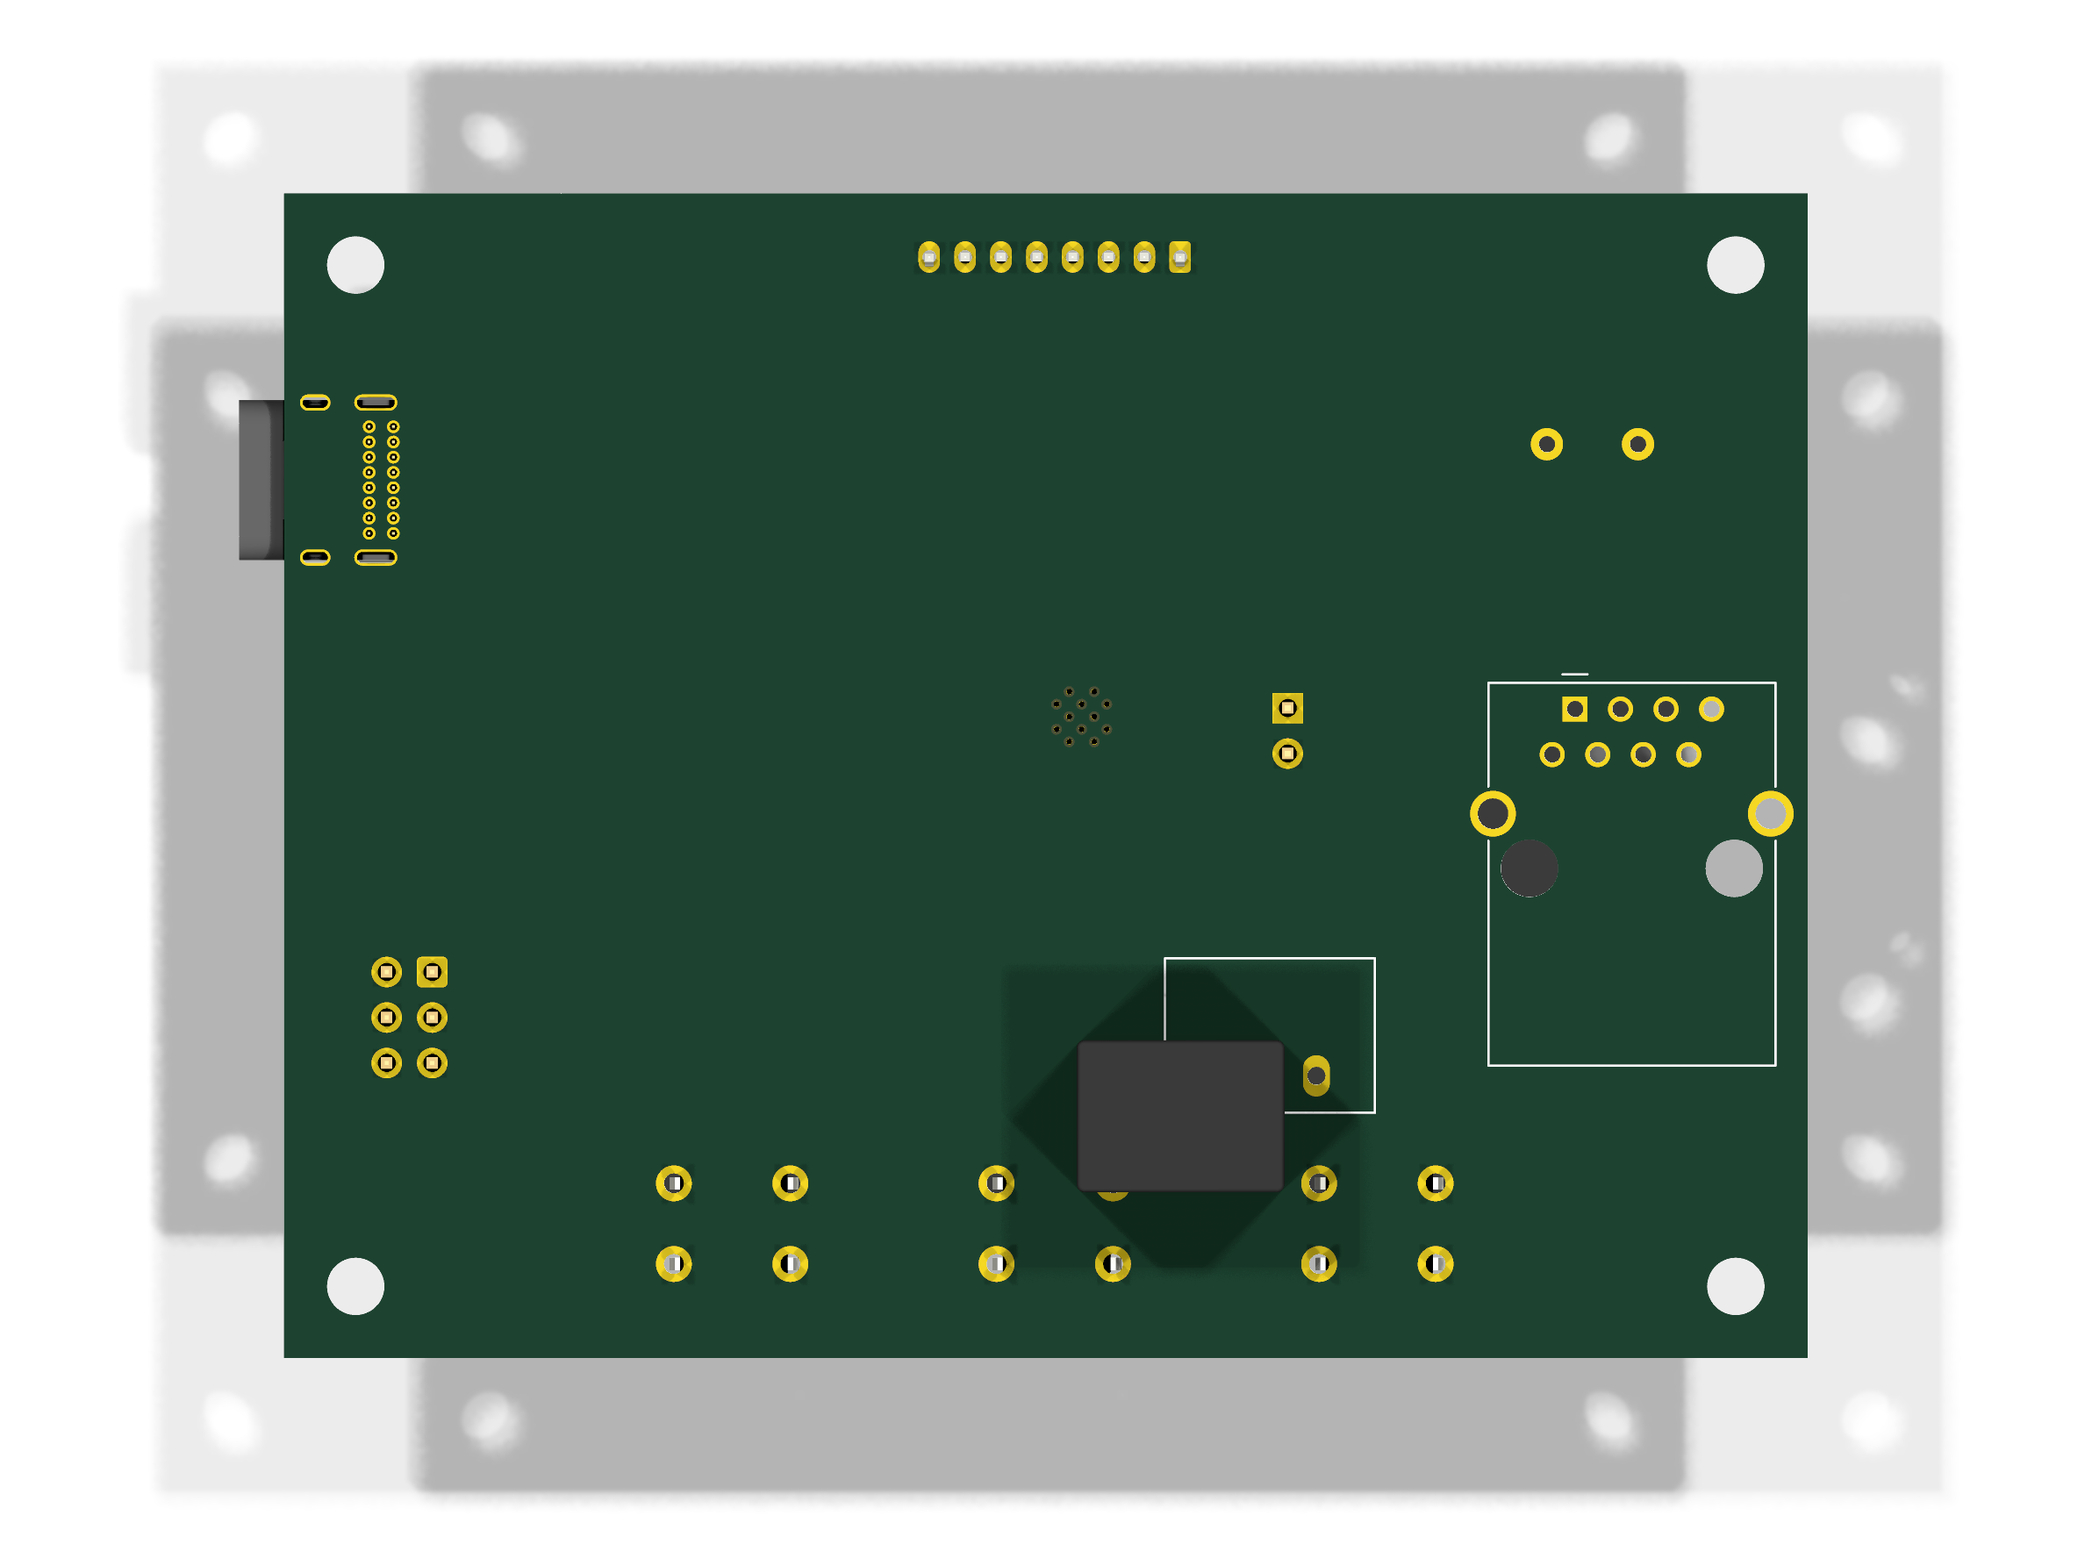
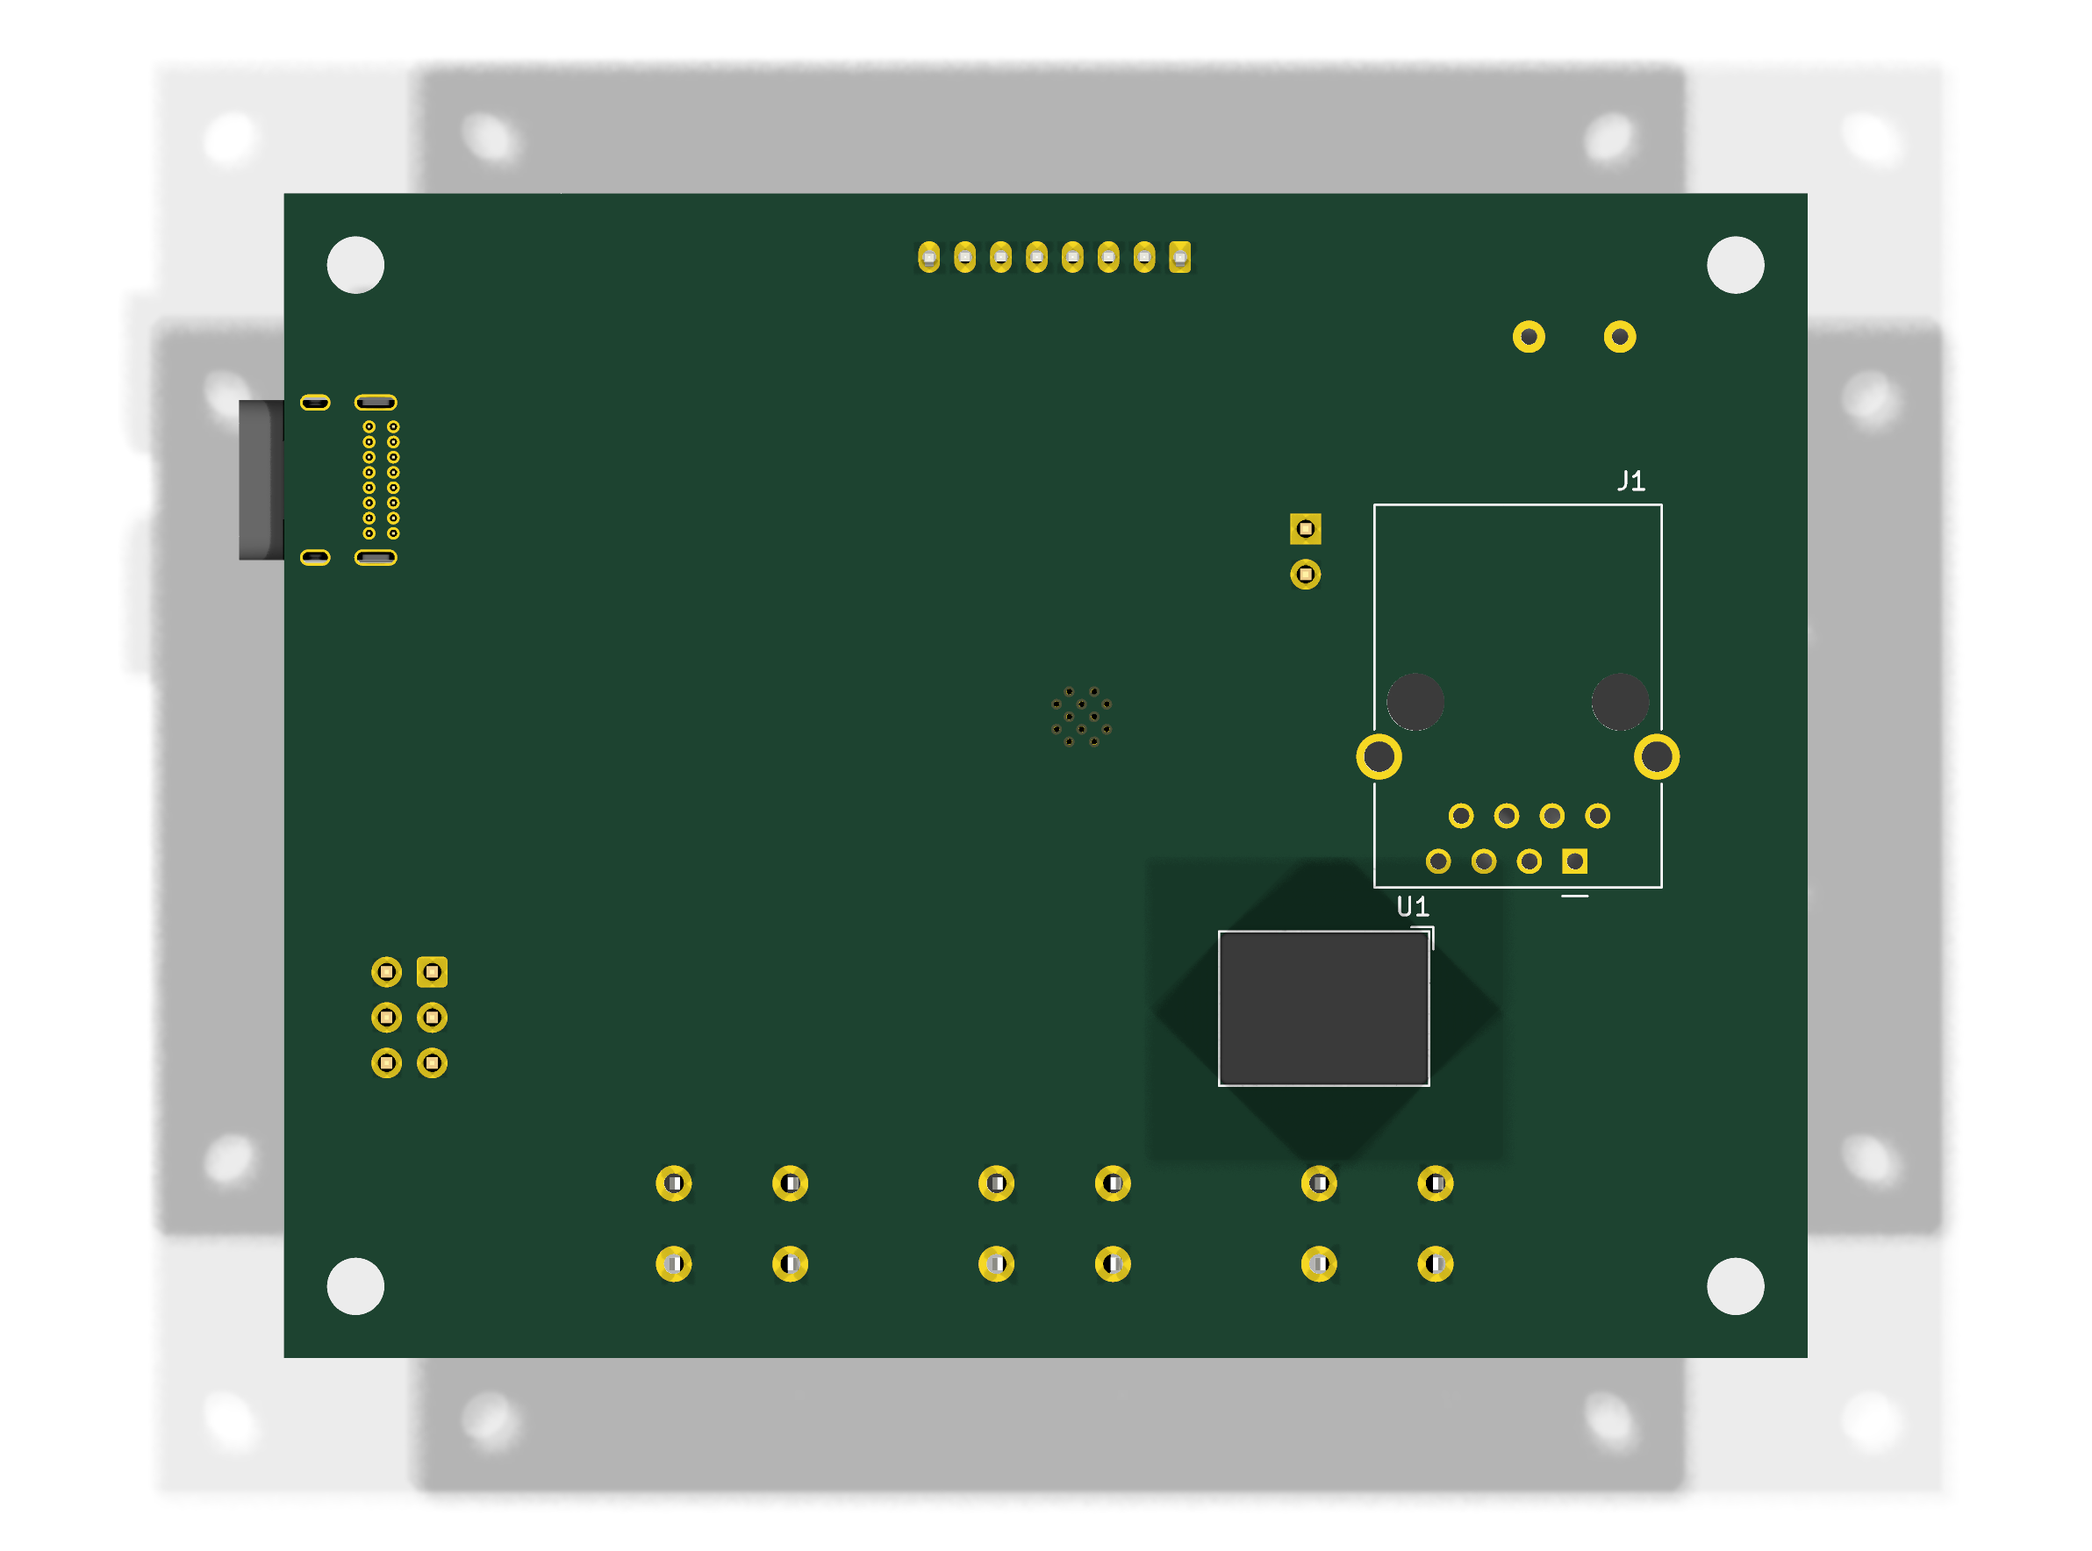
cp4: back-side refdes fixes, review packet, semaphore -> reviewer
Back-side refdes had two more defects (defect 7 in the packet table): the
inverse frame conversion mirrored X where _xf mirrors Y, so every back-side
designator landed at the mirror image of its intended spot (J1's was 21mm
off its own body); and _restore_properties was not side-aware, emitting
back-side refdes onto F.SilkS where they are invisible to whoever solders
that side. Both fixed; J1/U1 now carry mirrored text on B.SilkS positioned
at their bodies.

Candidate datasheets now live in hardware/datasheets/candidates/ with a
README explaining why: doc_consistency_check enforces that every PDF in the
active store maps to a BOM part (D32/F75), and a candidate has no BOM row by
definition. Parking it preserves the invariant instead of weakening the
checker for an exception.

CP4 packet written: 43 footprints, 57 nets, 0 unaccounted DRC. Semaphore
points at CP4 iteration 1.

Claude-Session: https://claude.ai/code/session_01EP34oLvQKnuhf59mAfUYQf

diff --git a/hardware/kicad/pcb/core.py b/hardware/kicad/pcb/core.py
@@ -765,6 +765,10 @@ def _restore_properties(board_text, prop_overrides=None):
             lib_props = {}
         atm = re.search(r'\(at ([-\d.]+) ([-\d.]+)(?: ([-\d.]+))?\)', chunk)
         rot = float(atm.group(3)) if atm and atm.group(3) else 0.0
+        # a footprint on B.Cu carries its silk on B.SilkS; the library
+        # block always says F.SilkS, and this restore was not side-aware,
+        # so back-side refdes were emitted onto the FRONT silk (CP4).
+        on_back = '(layer "B.Cu")' in chunk[:400]
         refm = re.search(r'\(property "Reference" "([^"]+)"', chunk)
         ref = refm.group(1) if refm else None
 
@@ -776,6 +780,11 @@ def _restore_properties(board_text, prop_overrides=None):
             # substitute the instance text into the library block
             blk = re.sub(r'^\(property "[^"]+" "[^"]*"',
                          f'(property "{name}" "{val}"', lib)
+            if on_back:
+                blk = blk.replace('(layer "F.SilkS")', '(layer "B.SilkS")')
+                blk = blk.replace('(layer "F.Fab")', '(layer "B.Fab")')
+                if "mirror" not in blk:
+                    blk = blk.replace("(effects", "(effects (justify mirror)", 1)
             if name == "Reference" and fpid.startswith("MountingHole"):
                 # convention: mounting holes carry no silk refdes (H1/H2
                 # rendered off-board at the corner holes otherwise)
@@ -870,7 +879,10 @@ def auto_refdes(components, placement, board_w, board_h,
         if rot:
             dx, dy = core_rot_inv(dx, dy, rot)
         if side == "B":
-            dx = -dx
+            # inverse of _xf's back-side mirror, which negates Y (CP4):
+            # negating X here put every back-side refdes at the mirror
+            # image of its intended spot (J1's landed 21 mm off its body).
+            dy = -dy
         ov = (round(dx, 3), round(dy, 3), ang)
         overrides[ref] = ov if font is None else ov + (font,)
 

diff --git a/hardware/reviews/cp4_display_placement_review.md b/hardware/reviews/cp4_display_placement_review.md
@@ -1,0 +1,164 @@
+# CP4 review packet — display-side placement
+
+Branch `hw/cp4-display-placement` · packet opened 2026-08-05 · designer: Claude
+Scope per D12: **display side only** (battery-side placement was CP3, APPROVED).
+
+## 1. Scope and inputs
+
+- Input netlist: the CP2-APPROVED display schematic's export,
+  `hardware/kicad/schematic/build_display/volthium_display.net`
+  (sha256 `bdb817c16281…`), 39 components / 56 nets. Two CP4-driven
+  schematic-side deltas, both in §4.1.
+- Output: `hardware/kicad/pcb/build_display/display_pcb.kicad_pcb`
+  (sha256 `cebadb942b4f…`) — 43 footprints (39 parts + 4 M3 mounting
+  holes), all pads net-bound, **placement only** (routing is CP5).
+- Hashes are of the committed git BLOB (`git cat-file blob HEAD:<path>`).
+- Rebuild: POSIX `.venv/bin/python hardware/kicad/pcb/build_display_pcb.py`
+  · Windows `.venv\Scripts\python.exe hardware\kicad\pcb\build_display_pcb.py`.
+  Pre-handoff gate: `python3 hardware/reviews/tools/handoff_check.py`.
+- Generator: `hardware/kicad/pcb/core.py` (shared with CP3) +
+  `hardware/kicad/pcb/build_display_pcb.py` (display floorplan as data).
+- Decisions taken: **D39** (MOD1 courtyard implements D26; J2 side-entry).
+
+## 2. What is materially new versus CP3
+
+**This is the project's first board with parts on the back side**, and that
+alone accounted for most of the work. CP3's battery board is all-front, so a
+family of defects in the shared generator had never been reachable. Seven were
+found and fixed here, each poison-tested; the approved CP3 board was
+re-verified **byte-identical (`448d59a276df`)** after every one.
+
+| # | Defect | Why CP3 could not see it |
+|---|--------|--------------------------|
+| 1 | `_flip_to_back()` swapped layers but never mirrored geometry — a back-side part's land pattern did not match the physical part (**fabrication-class**) | no back-side parts existed |
+| 2 | The mirror was then applied about the **wrong axis** (X instead of Y) — see §4.2 for how this was settled | — |
+| 3 | Writer and analytic gates used different back-side transforms, so DRC and the gates disagreed by ~5 mm | gates and writer agree trivially when nothing is flipped |
+| 4 | Courtyard collision skipped opposite-side pairs entirely, but **THT pads pierce the board** and obstruct both faces | all parts on one side |
+| 5 | Mounting holes were registered on one side only | same |
+| 6 | `courtyard_segments()` handled only lines/rects and silently skipped every other shape — a MountingHole courtyard is a single **circle**, so holes contributed **zero geometry** while appearing to be gated | DRC happened to catch the one real hole overlap during CP3, masking it |
+| 7 | Back-side refdes: inverse frame conversion mirrored the wrong axis (J1's designator landed 21 mm off its body) and the property restore was not side-aware, emitting back-side refdes onto **F.SilkS** | no back-side silk |
+
+Defect 6 is the most instructive: the CP3 code comment asserted that mounting
+holes "participate in the courtyard/outline gates like any part", and that
+claim was simply false for the entire checkpoint.
+
+## 3. Floorplan (rationale — mechanics dominate this board)
+
+The enclosure drives everything (D8/D27): an 85 × 65 mm PCB inside a US
+double-gang old-work box, behind a **pop-off faceplate that carries the
+e-paper module**. Only a ~8 mm standoff gap exists on the front.
+
+- **BACK side (faces the box floor, generous depth):** only the two parts
+  that would blow the front gap — **J1** Würth RJ45 right-angle (13.6 mm,
+  mating face W so the in-wall Cat5e enters from the side, §10.2 #5) and
+  **U1** R-78E3.3 SIP (~11 mm), per §10.2 #4 "keep tall parts off the
+  module-facing side".
+- **N edge:** **J2** e-paper header, **side-entry** (D39), probed to open
+  SOUTH so the cable runs over the board and rises to the module rather than
+  into the ~5 mm gap between board edge and box wall.
+- **Centre:** **MOD1** with the D26/D39 no-keepout courtyard.
+- **W band (y 6…25):** 12 V entry chain F1 → TVS1/C1 and the RS-485 front
+  end (U2, R2/R3/R4 bias+termination, J5) — placed clear of J1's
+  through-board pad field, which projects to x 6.9…25.4 / y 26.5…38.2.
+- **E column:** USB-C chain flowing west — J-USB → U-ESD/R_cc → U3-LDO →
+  U4-MUX, with J3 ESP-Prog in the SE pocket.
+- **S edge:** BTN1/2/3 at **x = 24 / 42 / 60 mm** (18 mm centres), each with
+  its 1 MΩ pull-up and 100 nF debounce immediately north.
+
+## 4. Findings made and fixed during self-review
+
+### 4.1 Two schematic-side deltas, both evidence-forced
+
+1. **MOD1 courtyard now implements D26.** The stock ESP32 courtyard is a
+   T-shape: a 19.5 × 20.2 mm body stem plus a **48 × 21 mm flare that exists
+   only to encode Espressif's antenna keepout**. D26 retired that keepout for
+   this board (radio unused — RS-485 is the only link, "no RF → no keepout →
+   freer layout") but the footprint never reflected it, and honouring it would
+   sterilise **36 % of an 85 × 65 mm PCB** for a rule the design has dropped.
+   Display-only variant `ESP32-S3-WROOM-1_HSvia0.3_NoAntKeepout`: **62/62 pads
+   coordinate-identical** to the parent, sole graphic delta F.CrtYd 8 → 4
+   segments. The battery board keeps the full-keepout parent (its radio IS
+   used, D25).
+2. **J2 is SIDE-entry (S8B-PH-K-S), not top-entry (B8B).** CP1 §4.4 deferred
+   this to "CP3, from the cable-routing/depth stack" and it was never decided;
+   the schematic had defaulted to top-entry. JST ePH datasheet: the top-entry
+   part's **mated height is 8.0 mm** (p.1) — the entire PCB→module gap, with
+   nothing left for the cable, which on a top-entry part exits vertically into
+   the module. Side-entry is a 7.6 mm header whose cable exits horizontally
+   (p.3). Widening the gap instead is rejected by a coupling: plunger length =
+   gap + faceplate + protrusion, so 8 mm → ~13.5 mm (mid-catalog for the 6×6×N
+   tactiles) but 12 mm → ~17.5 mm, at/past the catalog top end.
+
+### 4.2 How the flip axis was settled — tool as oracle, not reasoning
+
+My first fix mirrored **X**. That was wrong, and reasoning could not
+distinguish it from mirroring Y — both are "a mirror" and both look
+plausible. The decisive method: write a **stock** footprint to the back and
+let KiCad judge it, since `lib_footprint_mismatch` fires when a board
+footprint disagrees with its library copy.
+
+| transform | stock back-side U1 |
+|-----------|--------------------|
+| no mirror | mismatch |
+| mirror X (my first fix) | mismatch |
+| **mirror Y** | **clean** |
+
+Corroborated independently against a shipped KiCad demo board, whose B.Cu
+footprint stores library-X with **negated Y**. Display
+`lib_footprint_mismatch` fell 3 → 1 (only the vendored MOD1 variant remains,
+the same kiutils-serialisation class CP3 accepted).
+
+### 4.3 Doc corrections found before placing
+- §4.6's button positions (22 / 42 / 62 mm) are **20 mm centres**, contradicting
+  the same table's stated 18 mm pitch; §10.2's 24 / 42 / 60 is authoritative and
+  is what is built. Corrected.
+- The faceplate cutout span read "~16 mm" where 18 mm centres give **36 mm**.
+  Corrected. Both swept across all doc sites.
+- J1's shield: the Amphenol footprint (battery) names its shield pad `SH` and
+  binds the stock symbol; the **Würth** footprint (display) names them
+  `S1`/`S2`, so the netlist referenced a pad that does not exist and both real
+  shield tabs were unrepresented. Renamed the vendored Würth tabs to `SH`
+  (one metal shell → one node, NC here per DR-19); pad coordinates untouched.
+
+## 5. Gate stack
+
+All CP3 gates apply unchanged (parity, pinmap, outline, edge-marker, fab
+floors, readback, DRC, label-adjacency, handoff), running inside
+`BoardBuilder.write()` per CP3 F09. New this checkpoint:
+
+| Gate | What it proves | Poisoned? |
+|------|----------------|-----------|
+| thru-pads | a part's through-hole pad field vs the FAR side's courtyards — THT pads pierce the board | fires on J1×U2/J5 and U1×R6 during iteration |
+| courtyard (circles) | circular/poly/arc courtyards now contribute real segments | hole courtyard 0 → 24 segments; part-on-hole fires on both sides, clear placement stays clean |
+| mounting holes | registered on BOTH sides | as above |
+
+DRC final state: **0 unaccounted**. Accepted:
+- `unconnected_items` ×123 — placement-only board, routing at CP5.
+- `silk_edge_clearance` ×2 — J-USB's designed E-edge overhang.
+- `lib_footprint_mismatch` ×1 — MOD1 vendored variant (non-geometric
+  kiutils serialisation, same class as CP3 §2).
+
+## 6. Open items for the reviewer
+
+- **DR-35 (USB-C access) is OPEN and affects this placement.** The specified
+  GCT USB4085 is an **edge** connector, but the box leaves only ~5 mm past any
+  board edge while a plug needs 15–20 mm, and popping the faceplate exposes
+  the board's **front**, not its edges. The user proposed a **vertical** USB-C
+  hidden under the faceplate; that is now the recommended option — GCT
+  **USB4120-03-C is 6.5 mm tall** (product spec p.1, on file as
+  `hardware/datasheets/candidates/USB4120.pdf`), below the ~8 mm gap and below the ~9.4 mm J3 header, so it
+  costs **no depth**. Board is placed as the current (edge) part pending the
+  user's call; if option B is taken, J-USB's footprint, pin map and the
+  E-edge overhang whitelist all change.
+- **Per-instance evidence for the MOD1 `lib_footprint_mismatch`** is owed in
+  the CP3 style (pad-diff proving non-geometric).
+- **Depth tally re-confirmation**: the front gap is now set by J3 (~9.4 mm),
+  not the 8 mm assumed in cp1 §2.1; the plunger length that follows
+  (~15 mm) is still inside the 6×6×N catalog but should be re-derived from
+  the CP6 STEP.
+
+## 7. D13 scorecard
+
+Deferred to iteration 2 — this packet is the first hand-off of a board whose
+generator changed materially underneath it, and the reviewer's independent
+rebuild is the more valuable first check.

diff --git a/hardware/datasheets/candidates/README.md b/hardware/datasheets/candidates/README.md
@@ -1,0 +1,15 @@
+# Candidate datasheets
+
+PDFs for parts under consideration but **not ordered**. They live here, not
+in the active store, because `doc_consistency_check` enforces a real
+invariant on `hardware/datasheets/`: every PDF there corresponds to a part
+in the canonical BOM (D32/F75). A candidate has no BOM row by definition,
+so parking it here keeps that invariant meaningful instead of weakening the
+checker to accommodate an exception.
+
+When a candidate is chosen, move its PDF up into `hardware/datasheets/`,
+add the manifest provenance row, and update the BOM in the same commit.
+
+| File | Part | Raised by | Status |
+|------|------|-----------|--------|
+| `USB4120.pdf` | GCT USB4120-03-C — USB2.0 Type-C receptacle, 16 contacts, **vertical**, SMT, **H=6.5 mm** (p.1 title block; Rev A2 15/07/24; sha256 `816ea8c0b1db…`; fetched 2026-08-05 from https://gct.co/files/specs/usb4120-spec.pdf) | **DR-35 option B** — a front-face service port that is reachable with the faceplate off and costs no depth | OPEN — awaiting the user's call |

diff --git a/hardware/reviews/DESIGN_REVIEW_ITEMS.md b/hardware/reviews/DESIGN_REVIEW_ITEMS.md
@@ -1363,7 +1363,7 @@ assembled, which is exactly the "hidden until serviced" behaviour wanted.
 The question was whether it fits under the module when assembled. It does,
 with room to spare: **GCT USB4120-03-C is 6.5 mm tall** ("USB2.0 Type C
 Receptacle, 16 Contacts, Vertical, SMT, H=6.5mm", product spec p.1, fetched
-2026-08-05, on file as `USB4120.pdf`). The PCB→module standoff gap is ~8 mm,
+2026-08-05, on file as `hardware/datasheets/candidates/USB4120.pdf`). The PCB→module standoff gap is ~8 mm,
 and the tallest front-side part is already the J3 ESP-Prog header at about
 9.4 mm — so **this connector adds no depth at all** and does not lengthen the
 button plungers. Availability checked the same day: **89,250 in stock,
